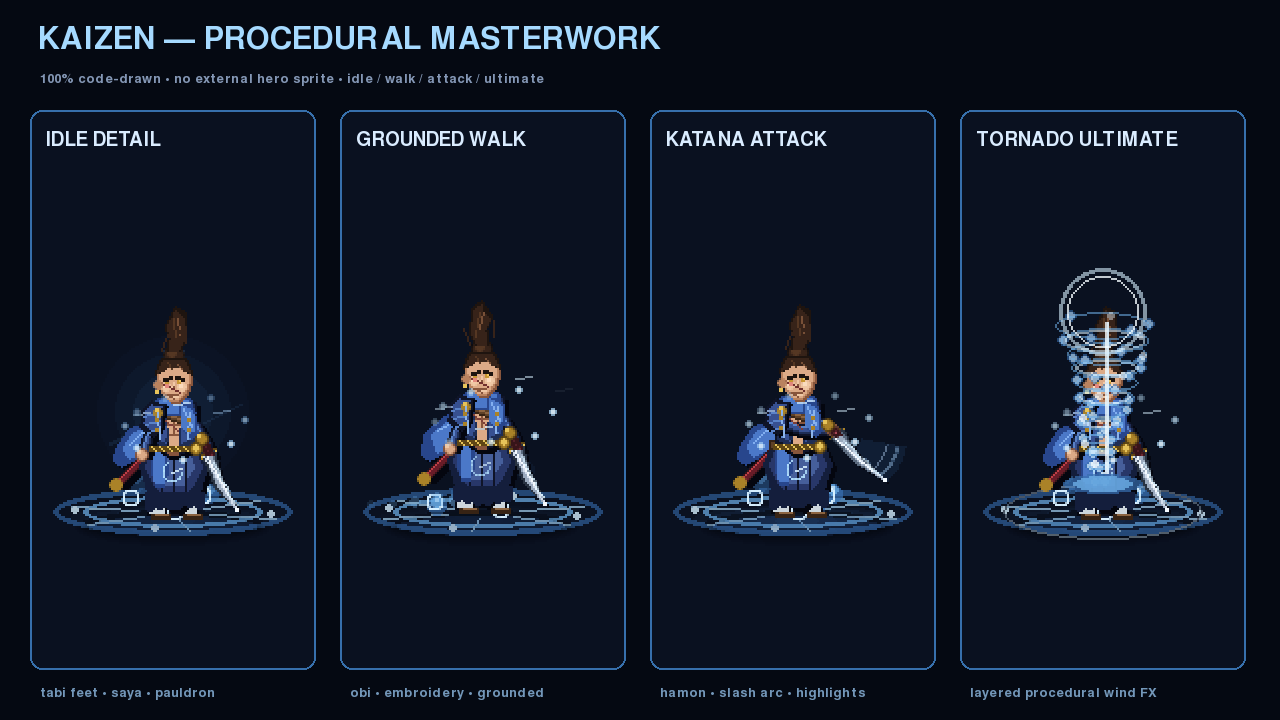
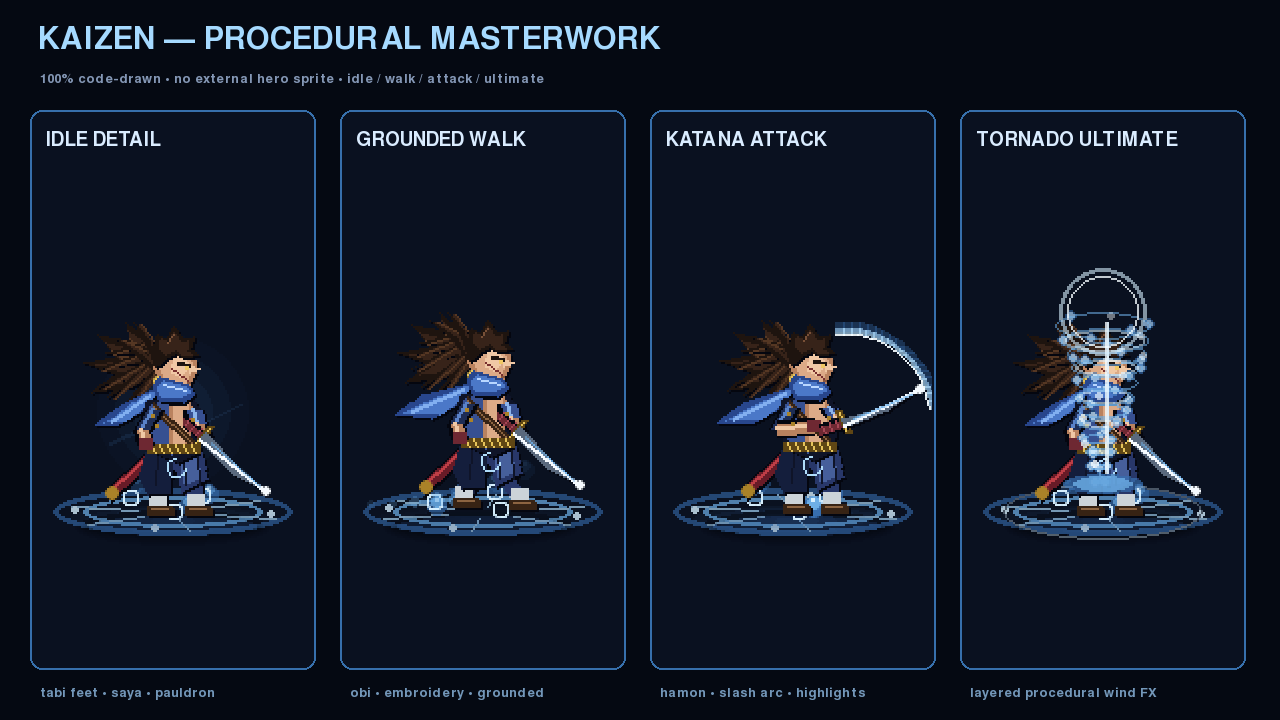
feat: bangun ulang Kaizen dengan rig procedural berlapis

diff --git a/heroes/_bundle.py b/heroes/_bundle.py
@@ -4258,6 +4258,18 @@ class _NS_kaizen:
     # ===================================================================
     def _draw_kaizen_body(surface, cx, cy, facing, phase, action,
                           attack_progress=0):
+        """Renderer tubuh Kaizen kualitas maksimum, 100% procedural.
+
+        Dibangun sebagai bone rig 2D berlapis: setiap pose mengubah lean,
+        langkah, sendi tangan, arah katana, rambut, dan scarf. Tidak ada PNG,
+        sprite sheet, ataupun image.load. Efek skill lama tetap kompatibel.
+        """
+        _NS_kaizen._draw_kaizen_elite(
+            surface, cx, cy, facing, phase, action, attack_progress)
+        return
+
+        # Renderer legacy dipertahankan sementara sebagai dokumentasi bentuk
+        # dan fallback pengembangan, tetapi jalur produksi memakai elite rig.
         # Scarf + lacquered saya behind the body.  The diagonal sheath
         # gives Kaizen a readable swordsman silhouette even at gameplay size.
         _NS_kaizen._draw_scarf_back(surface, cx, cy, facing, phase, action)
@@ -4289,6 +4301,275 @@ class _NS_kaizen:
 
         # Body wind particles
         _NS_kaizen._draw_body_particles(surface, cx, cy, phase)
+
+
+    def _draw_kaizen_elite(surface, cx, cy, facing, phase, action,
+                           attack_progress=0.0):
+        """Hand-authored pixel-art rig memakai primitive pygame saja."""
+        p = _NS_kaizen.PALETTE
+        f = 1 if facing >= 0 else -1
+        walk = action == "walk"
+        attack = action == "attack"
+        stride = math.sin(phase * 1.7)
+        lean = (3 if walk else 0) * f
+        if attack:
+            lean = int(math.sin(max(0.0, min(1.0, attack_progress)) *
+                                math.pi) * 7) * f
+
+        def pt(dx, dy):
+            return (int(cx + dx * f + lean), int(cy + dy))
+
+        def poly(color, points, outline=True):
+            pts = [pt(dx, dy) for dx, dy in points]
+            if outline:
+                _NS_kaizen._poly(surface, p["shadow_deep"],
+                                  [(x + f, y + 1) for x, y in pts])
+            _NS_kaizen._poly(surface, color, pts)
+            return pts
+
+        def limb(a, b, width, base, light=None):
+            aa, bb = pt(*a), pt(*b)
+            _NS_kaizen._aaline(surface, p["shadow_deep"], aa, bb, width + 3)
+            _NS_kaizen._aaline(surface, base, aa, bb, width)
+            if light:
+                off = -1 if f > 0 else 1
+                _NS_kaizen._aaline(surface, light,
+                                   (aa[0] + off, aa[1] - 1),
+                                   (bb[0] + off, bb[1] - 1),
+                                   max(1, width // 3))
+
+        # ── back hair: seven independently animated, tapered locks ──
+        hair_wave = math.sin(phase * 1.25)
+        tail_root = (-7, -34)
+        # Broad ponytail mass first, then separate pointed locks. This avoids
+        # the "thin broom" silhouette common in primitive-only renderers.
+        hw = int(hair_wave * 2)
+        poly(p["hair_darkest"], [(-5, -35), (-12, -48), (-24, -57 + hw),
+             (-21, -48 + hw), (-38, -51 + hw), (-29, -40 + hw),
+             (-45, -37 + hw), (-29, -31 + hw), (-41, -22 + hw),
+             (-21, -25 + hw), (-11, -30)])
+        poly(p["hair_dark"], [(-8, -36), (-14, -46), (-23, -53 + hw),
+             (-21, -44 + hw), (-34, -47 + hw), (-27, -38 + hw),
+             (-39, -36 + hw), (-25, -32 + hw), (-34, -26 + hw),
+             (-18, -28 + hw)], False)
+        poly(p["hair_mid"], [(-14, -43), (-22, -49 + hw),
+             (-20, -42 + hw), (-31, -43 + hw), (-24, -37 + hw)], False)
+        locks = [(-16, -47, -34, -42), (-17, -43, -39, -35),
+                 (-16, -39, -38, -27), (-13, -36, -33, -20),
+                 (-10, -34, -25, -16), (-15, -46, -29, -51),
+                 (-11, -49, -20, -57)]
+        for i, (mx, my, ex, ey) in enumerate(locks):
+            wave = int(hair_wave * (2 + i % 3))
+            shape = [tail_root, (mx, my + wave), (ex, ey + wave),
+                     (mx - 2, my + 5 + wave), (-8, -30)]
+            poly(p["hair_darkest"], shape)
+            inner = [(-8, -34), (mx, my + 1 + wave),
+                     (ex + 3, ey + 1 + wave), (mx + 1, my + 4 + wave)]
+            poly(p["hair_dark"], inner, False)
+            a, b = pt(mx + 1, my + 1 + wave), pt(ex + 4, ey + 1 + wave)
+            _NS_kaizen._aaline(surface, p["hair_mid"], a, b, 1)
+
+        # ── scarf tails behind torso ──
+        scarf_wave = int(math.sin(phase * 1.45) * 3)
+        scarf_boost = 7 if walk or attack else 0
+        poly(p["scarf_dark"], [(-5, -25), (-12, -22),
+             (-26 - scarf_boost, -17 + scarf_wave),
+             (-39 - scarf_boost, -7 + scarf_wave),
+             (-28, -5), (-14, -13)])
+        poly(p["scarf_mid"], [(-7, -23), (-15, -20),
+             (-29 - scarf_boost, -11 + scarf_wave),
+             (-35 - scarf_boost, -8 + scarf_wave), (-24, -7), (-12, -16)],
+             False)
+        _NS_kaizen._aaline(surface, p["scarf_light"], pt(-12, -20),
+                           pt(-31 - scarf_boost, -9 + scarf_wave), 2)
+
+        # ── lacquered saya behind hip ──
+        limb((-7, 7), (-31, 29), 7, (104, 27, 39), (190, 62, 70))
+        _NS_kaizen._aacircle(surface, p["gold_mid"], pt(-31, 29), 3)
+
+        # ── legs: true split stance, not one floating robe mass ──
+        leg_phase = stride if walk else 0.0
+        rear_foot = (-8 - int(leg_phase * 5), 40 - int(abs(leg_phase) * 2))
+        front_foot = (11 + int(leg_phase * 6), 40)
+        for hip, knee, foot, shade in (
+                ((-5, 12), (-9, 27), rear_foot, p["pants_dark"]),
+                ((6, 12), (9, 26), front_foot, p["pants_mid"])):
+            poly(shade, [hip, (hip[0] + 7, hip[1]),
+                         (knee[0] + 5, knee[1]), (foot[0] + 4, foot[1] - 5),
+                         (foot[0] - 4, foot[1] - 5),
+                         (knee[0] - 4, knee[1])])
+            # shin wrap / tabi
+            poly((204, 211, 216), [(foot[0] - 4, foot[1] - 10),
+                 (foot[0] + 4, foot[1] - 10), (foot[0] + 4, foot[1] - 4),
+                 (foot[0] - 4, foot[1] - 4)], False)
+            poly(p["leather_dark"], [(foot[0] - 5, foot[1] - 4),
+                 (foot[0] + 7, foot[1] - 4), (foot[0] + 8, foot[1]),
+                 (foot[0] - 5, foot[1])])
+            _NS_kaizen._aaline(surface, p["leather_light"],
+                               pt(foot[0] - 3, foot[1] - 3),
+                               pt(foot[0] + 5, foot[1] - 3), 1)
+
+        # Wide hakama panels keep volume while the feet remain readable.
+        poly(p["pants_dark"], [(-12, 5), (0, 7), (-2, 29),
+                               (-13, 30), (-17, 22)])
+        poly(p["pants_mid"], [(0, 7), (12, 5), (17, 22),
+                              (4, 29), (1, 18)])
+        poly(p["pants_light"], [(3, 9), (10, 8), (13, 21),
+                                (6, 25)], False)
+        for dx in (-8, 5, 12):
+            _NS_kaizen._aaline(surface, p["cloth_darkest"], pt(dx, 10),
+                               pt(dx + (1 if dx > 0 else -1), 25), 1)
+
+        # ── torso: asymmetric open jacket + leather harness ──
+        poly(p["cloth_darkest"], [(-13, -17), (7, -20), (15, -10),
+             (12, 9), (2, 14), (-12, 8), (-16, -6)])
+        poly(p["cloth_mid"], [(-11, -15), (-2, -18), (-1, 10),
+                              (-10, 7), (-13, -5)], False)
+        poly(p["skin_dark"], [(-2, -18), (7, -18), (10, -9),
+                              (5, 8), (-1, 9)], False)
+        poly(p["skin_mid"], [(0, -16), (6, -16), (8, -8),
+                             (4, 5), (0, 7)], False)
+        _NS_kaizen._aaline(surface, p["leather_dark"], pt(-10, -14),
+                           pt(10, 5), 5)
+        _NS_kaizen._aaline(surface, p["leather_light"], pt(-10, -14),
+                           pt(10, 5), 1)
+        # braided obi
+        _NS_kaizen._aaline(surface, p["gold_dark"], pt(-13, 7), pt(13, 7), 5)
+        for dx in range(-10, 11, 4):
+            _NS_kaizen._aaline(surface, p["gold_light"], pt(dx - 1, 5),
+                               pt(dx + 1, 9), 1)
+
+        # ── rear arm / bracer ──
+        if attack:
+            prog = max(0.0, min(1.0, attack_progress))
+            rear_hand = (-2 + int(prog * 8), -3)
+        else:
+            rear_hand = (-14, 5)
+        limb((-10, -12), (-16, -2), 7, p["cloth_dark"], p["cloth_light"])
+        limb((-16, -2), rear_hand, 6, p["skin_dark"], p["skin_light"])
+        _NS_kaizen._rect(surface, p["wrap_mid"],
+                         (pt(*rear_hand)[0] - 3, pt(*rear_hand)[1] - 3, 7, 6), 1)
+
+        # ── neck and three-quarter head ──
+        poly(p["skin_dark"], [(-3, -23), (5, -23), (5, -16), (-3, -16)])
+        face = [(-8, -42), (4, -44), (10, -38), (11, -31),
+                (7, -23), (1, -20), (-6, -24), (-10, -33)]
+        poly(p["skin_dark"], face)
+        poly(p["skin_mid"], [(-6, -40), (3, -42), (8, -37),
+             (9, -32), (6, -25), (1, -22), (-4, -25), (-7, -33)], False)
+        poly(p["skin_light"], [(1, -40), (6, -37), (7, -33),
+                               (3, -29), (-1, -31)], False)
+        # nose, eye, brow, scar, mouth
+        poly(p["skin_light"], [(8, -35), (13, -33), (8, -31)], False)
+        _NS_kaizen._aaline(surface, p["hair_darkest"], pt(2, -36), pt(8, -35), 2)
+        _NS_kaizen._rect(surface, p["eye_iris_light"],
+                         (pt(6, -34)[0], pt(6, -34)[1], 2, 2))
+        _NS_kaizen._aaline(surface, (120, 48, 47), pt(-1, -33), pt(7, -27), 1)
+        _NS_kaizen._aaline(surface, p["skin_darkest"], pt(4, -25), pt(8, -26), 1)
+        _NS_kaizen._aacircle(surface, p["gold_light"], pt(-8, -27), 2)
+
+        # ── hair cap and crown spikes ──
+        poly(p["hair_darkest"], [(-10, -42), (-8, -50), (-3, -47),
+             (0, -54), (4, -48), (10, -49), (8, -43), (12, -40),
+             (6, -38), (1, -41), (-4, -38), (-9, -34)])
+        poly(p["hair_dark"], [(-7, -43), (-6, -48), (-2, -45),
+             (0, -51), (3, -46), (7, -47), (6, -42), (9, -40),
+             (4, -40), (1, -43), (-4, -40)], False)
+        _NS_kaizen._aaline(surface, p["hair_light"], pt(-3, -46), pt(0, -50), 1)
+
+        # Scarf collar sits above neck and anchors the long tail.
+        poly(p["scarf_dark"], [(-10, -24), (-7, -29), (7, -25),
+             (10, -20), (5, -16), (-7, -17)])
+        poly(p["scarf_mid"], [(-8, -24), (-5, -27), (6, -24),
+             (8, -21), (4, -19), (-6, -19)], False)
+        _NS_kaizen._aaline(surface, p["scarf_high"], pt(-5, -25), pt(6, -22), 1)
+
+        # ── sword arm and katana, pose-driven ──
+        if attack:
+            prog = max(0.0, min(1.0, attack_progress))
+            if prog < .28:       # wind-up behind head
+                t = prog / .28
+                hand = (10, -7 - int(t * 8))
+                angle = -2.15 + t * .45
+            elif prog < .62:     # fast horizontal cut
+                t = (prog - .28) / .34
+                hand = (12 + int(t * 8), -13 + int(t * 12))
+                angle = -1.70 + t * 1.85
+            else:                # low recovery
+                t = (prog - .62) / .38
+                hand = (20 - int(t * 7), -1 + int(t * 10))
+                angle = .15 + t * .65
+        else:
+            hand = (15, 1)
+            angle = .72
+        elbow = ((hand[0] + 10) // 2, (hand[1] - 10) // 2)
+        limb((10, -12), elbow, 8, p["cloth_mid"], p["cloth_high"])
+        limb(elbow, hand, 7, p["skin_dark"], p["skin_light"])
+        _NS_kaizen._draw_elite_katana(surface, cx + lean, cy, f,
+                                      hand, angle, phase, attack)
+
+        # Small wind crest and armor rivets remain legible at 50 px.
+        _NS_kaizen._draw_wind_arc(surface, *pt(2, 17), 5, .2, 4.6,
+                                   p["wind_light"], 1, 8)
+        for dx, dy in ((-10, -9), (-8, -4), (10, -7)):
+            _NS_kaizen._aacircle(surface, p["gold_mid"], pt(dx, dy), 1)
+
+
+    def _draw_elite_katana(surface, cx, cy, facing, hand, angle, phase,
+                           attacking=False):
+        """Procedural katana with curved silhouette, hamon, and slash arc."""
+        p = _NS_kaizen.PALETTE
+        f = 1 if facing >= 0 else -1
+        hx, hy = cx + hand[0] * f, cy + hand[1]
+        length = 42
+        ux, uy = math.cos(angle) * f, math.sin(angle)
+        tx, ty = hx + ux * length, hy + uy * length
+        px, py = -uy, ux
+        # wrapped grip behind guard
+        ex, ey = hx - ux * 12, hy - uy * 12
+        _NS_kaizen._aaline(surface, p["shadow_deep"], (hx, hy), (ex, ey), 7)
+        _NS_kaizen._aaline(surface, p["wrap_mid"], (hx, hy), (ex, ey), 4)
+        for t in (.25, .55, .85):
+            wx, wy = hx - ux * 12 * t, hy - uy * 12 * t
+            _NS_kaizen._aaline(surface, p["wrap_light"],
+                               (wx - px * 2, wy - py * 2),
+                               (wx + px * 2, wy + py * 2), 1)
+        _NS_kaizen._aaline(surface, p["gold_dark"],
+                           (hx - px * 6, hy - py * 6),
+                           (hx + px * 6, hy + py * 6), 4)
+        _NS_kaizen._aaline(surface, p["gold_light"],
+                           (hx - px * 5, hy - py * 5),
+                           (hx + px * 5, hy + py * 5), 1)
+        # subtly curved blade polygon
+        mx, my = hx + ux * 23 + px * 2, hy + uy * 23 + py * 2
+        blade = [(hx + px * 3, hy + py * 3),
+                 (mx + px * 2, my + py * 2), (tx, ty),
+                 (mx - px, my - py), (hx - px * 2, hy - py * 2)]
+        _NS_kaizen._poly(surface, p["shadow_deep"],
+                          [(x + f, y + 1) for x, y in blade])
+        _NS_kaizen._poly(surface, p["steel_dark"], blade)
+        _NS_kaizen._aaline(surface, p["steel_shine"],
+                           (hx + px * 2, hy + py * 2), (tx, ty), 2)
+        # wavy temper line
+        hamon = []
+        for i in range(1, 8):
+            t = i / 8.0
+            wave = math.sin(i * math.pi * .72 + phase * .2) * .8
+            hamon.append((hx + ux * length * t + px * wave,
+                          hy + uy * length * t + py * wave))
+        if len(hamon) > 1:
+            pygame.draw.aalines(surface, p["wind_mid"], False, hamon)
+        _NS_kaizen._aacircle(surface, p["steel_shine"], (int(tx), int(ty)), 2)
+
+        if attacking:
+            # layered crescent centered on the sword hand
+            start = angle - 1.25
+            for radius, color, width in ((48, (*p["wind_dark"], 90), 5),
+                                         (46, (*p["wind_light"], 170), 3),
+                                         (44, (*p["wind_white"], 235), 1)):
+                _NS_kaizen._draw_wind_arc(surface, hx, hy, radius,
+                                           start, angle + .25,
+                                           color, width, 18)
 
 
     def _draw_saya_back(surface, cx, cy, facing, phase):

diff --git a/tools/test_kaizen_masterwork.py b/tools/test_kaizen_masterwork.py
@@ -41,6 +41,8 @@ def render_pose(attack=False):
 def test_masterwork_is_procedural():
     source = inspect.getsource(K)
     assert "pygame.image.load" not in source
+    assert callable(K._draw_kaizen_elite)
+    assert callable(K._draw_elite_katana)
     assert callable(K._draw_saya_back)
     assert callable(K._draw_masterwork_details)
 
@@ -51,8 +53,8 @@ def test_material_details_and_pose():
     palette = colors(idle)
 
     # Exact material swatches prove these layers reached the final render.
-    assert (205, 214, 220) in palette       # tabi socks
-    assert (105, 28, 40) in palette         # lacquered saya
+    assert (204, 211, 216) in palette       # tabi socks
+    assert (104, 27, 39) in palette         # lacquered saya
     assert K.PALETTE["gold_light"] in palette
     assert K.PALETTE["cloth_high"] in palette
 

diff --git a/README.md b/README.md
@@ -60,11 +60,13 @@ dibedakan ketika unit bertumpuk.
 
 ### Contoh maksimal: Kaizen Masterwork
 
-Kaizen menjadi hero pertama yang menerima detail procedural tingkat lanjut:
-stance berkaki terpisah dengan tabi/sandal, saya katana berlapis lacquer,
-pauldron tiga lapis, obi braided, bordir crest angin, scar/earring wajah,
-serta garis temper *hamon* pada katana. Semua pose idle, walk, attack, dan
-skill tetap dihasilkan dari primitive pygame dan masuk pipeline cache normal.
+Kaizen menjadi hero pertama yang menerima renderer procedural tingkat lanjut.
+Tubuh lama dibangun ulang sebagai **bone rig 2D berlapis** dengan siluet
+3/4 samping: ponytail berumbai, scarf dinamis, stance berkaki terpisah dengan
+tabi/sandal, saya katana berlapis lacquer, obi braided, wajah ber-scar, serta
+katana melengkung dengan garis temper *hamon*. Pose idle, walk, attack dan
+arah katana dihitung dari sendi/parameter animasi; slash bertumpuk dan skill
+angin tetap dihasilkan dari primitive pygame dan masuk pipeline cache normal.
 
 Preview: [docs/kaizen_masterwork_preview.png](docs/kaizen_masterwork_preview.png).
 
